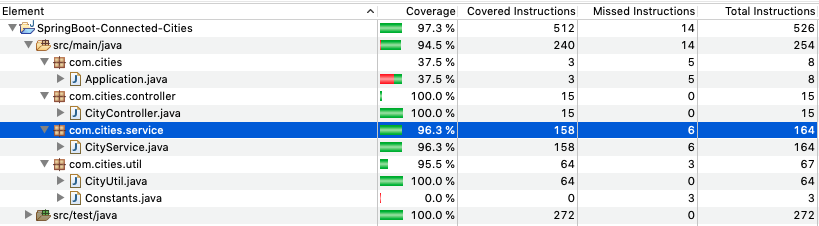
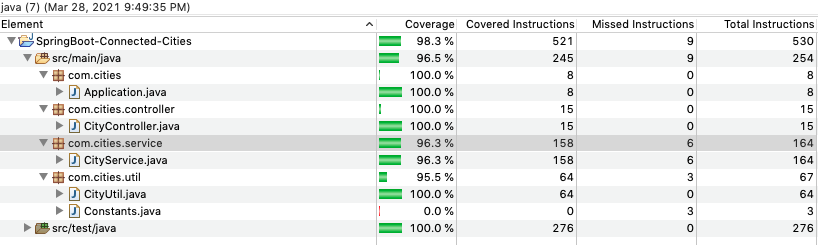
new code coverage screen shotr

diff --git a/src/test/java/com/cities/ApplicationTests.java b/src/test/java/com/cities/ApplicationTests.java
@@ -10,4 +10,9 @@ class ApplicationTests {
 	void contextLoads() {
 	}
 
+	@Test
+	public void main() {
+		Application.main(new String[] {});
+	}
+
 }
